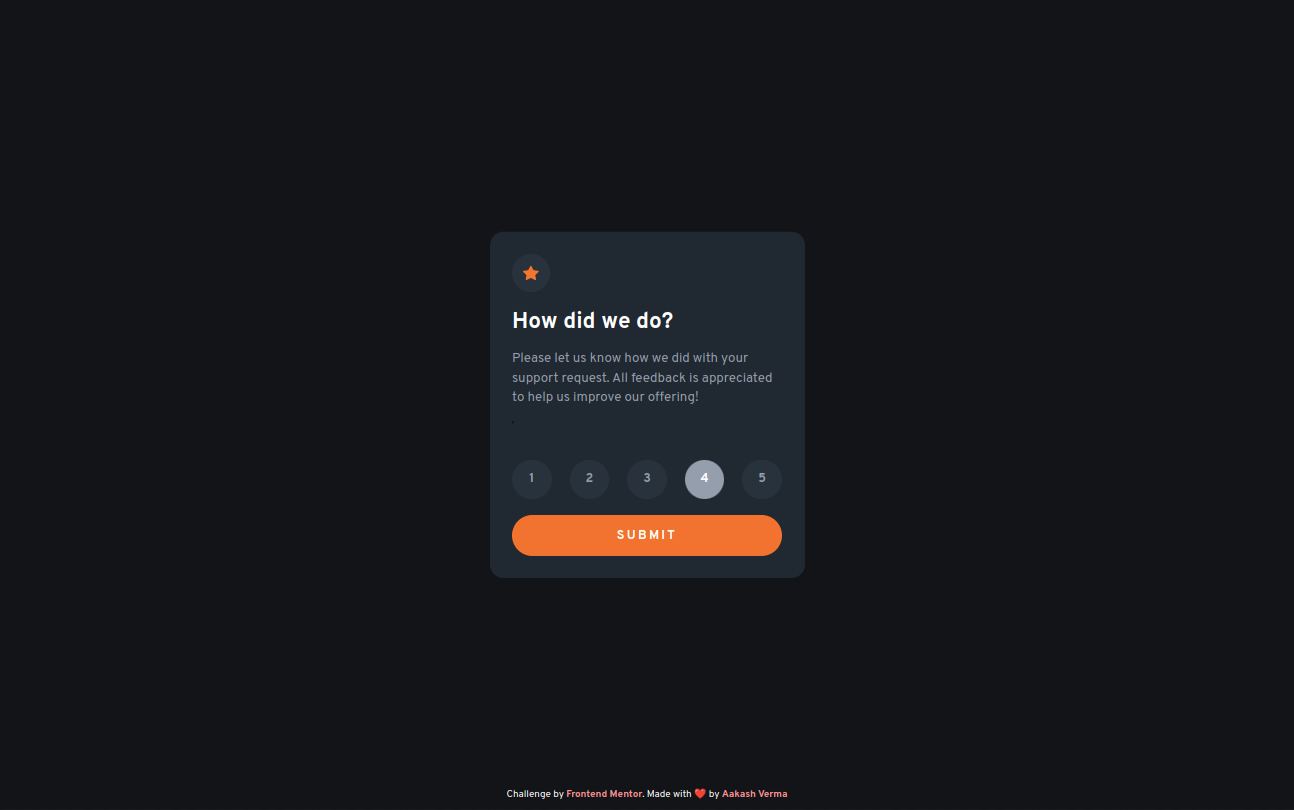
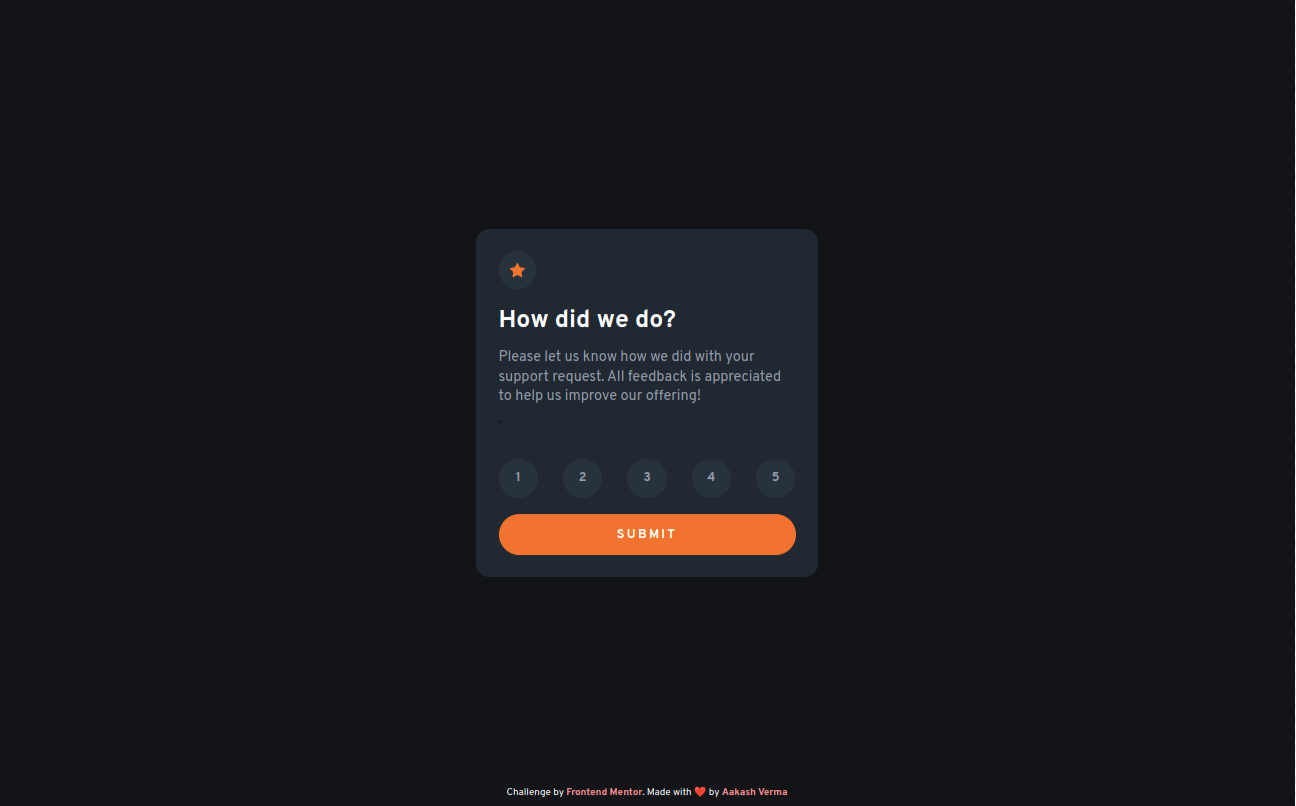
update responsiveness

diff --git a/styles/main.css b/styles/main.css
@@ -177,8 +177,9 @@ body {
 
 @media (min-width: 700px) {
     .component-card {
-        max-width: 38rem;
+        max-width: 45rem !important;
      }
+
      .component-card_text--container__heading {
         font-size: 2.75rem;
     }
